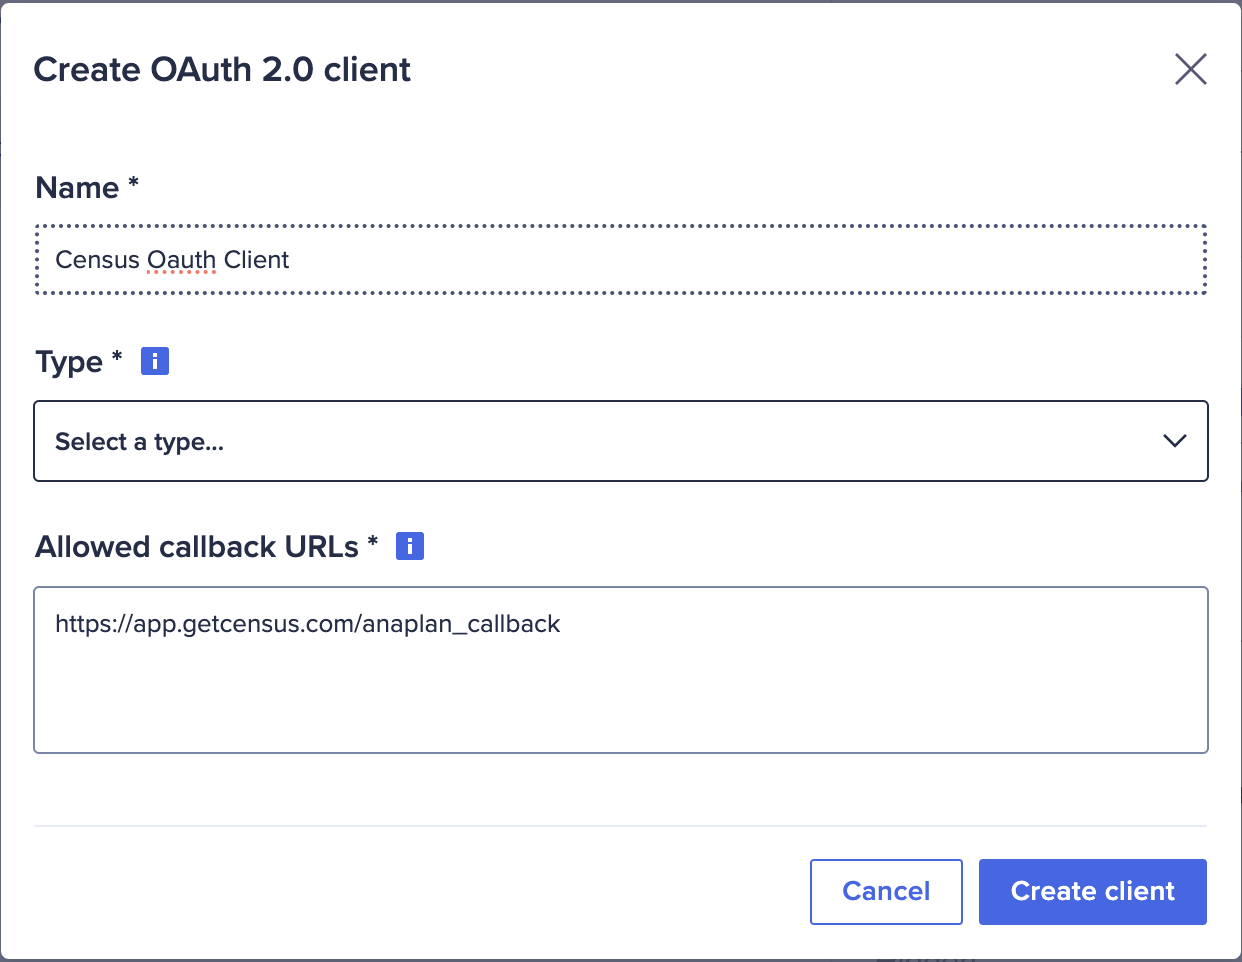
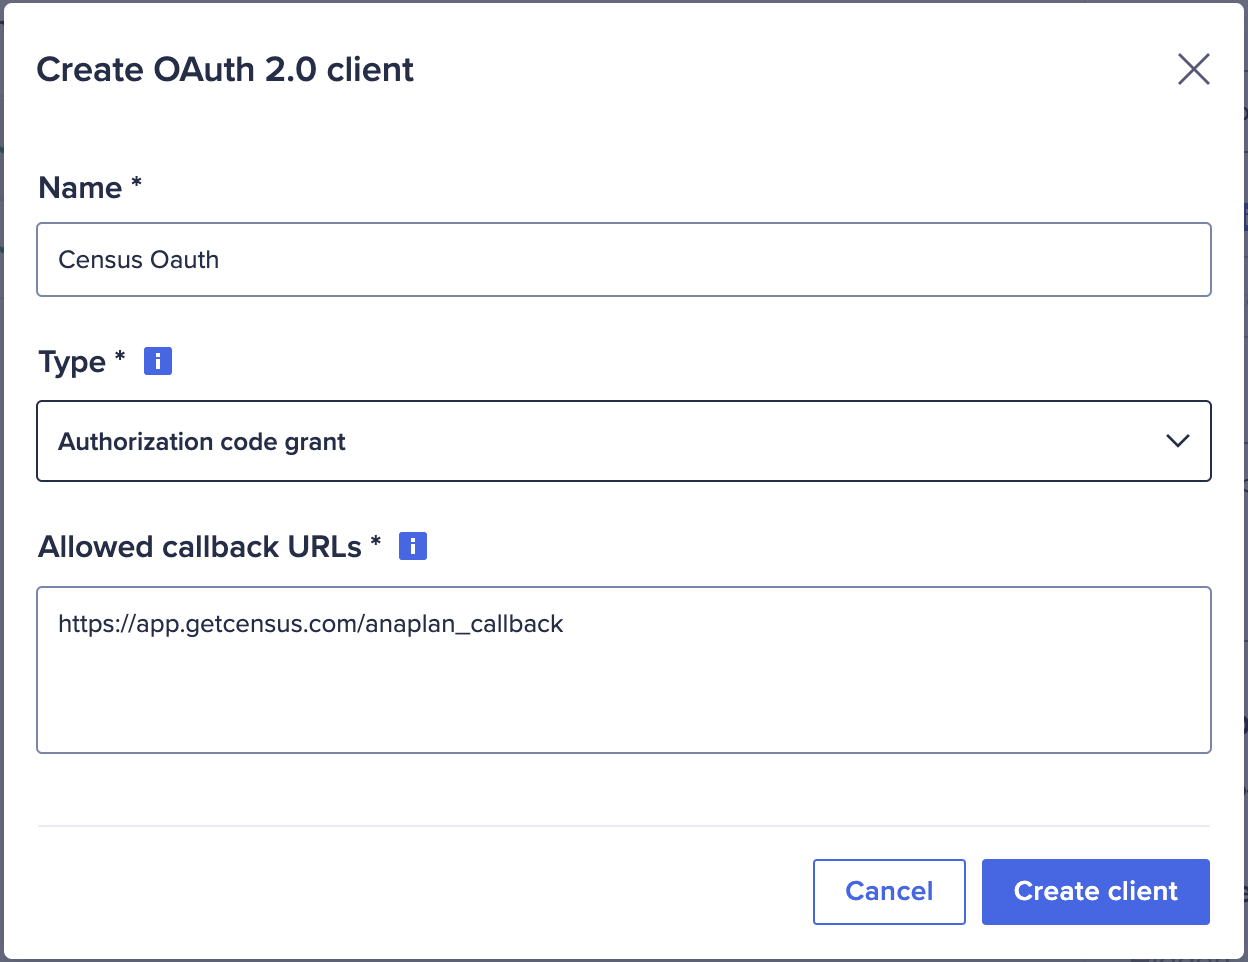
small addition

diff --git a/destinations/anaplan.md b/destinations/anaplan.md
@@ -58,7 +58,7 @@ The username and password will be the username and password used to authenticate
 
   Navigate to `Administration` -> `Security` -> `OAuth Clients` and click the `New` button in the upper right.
   ![Create an oauth client](<../.gitbook/assets/AnaplanOauthClient.png>)
-  Name the client and set the allowed callback URLs to include `https://app.getcensus.com/anaplan_callback`. Then, click `Create`.
+  Name the client, choose `Authorization code grant` as the type, and set the allowed callback URLs to include `https://app.getcensus.com/anaplan_callback`. Then, click `Create`.
 
   Clicking on the created OAuth client will provide access to the client ID and secret.
   ![Creates oauth client](<../.gitbook/assets/AnaplanOauthClientIDandSecret.png>)
